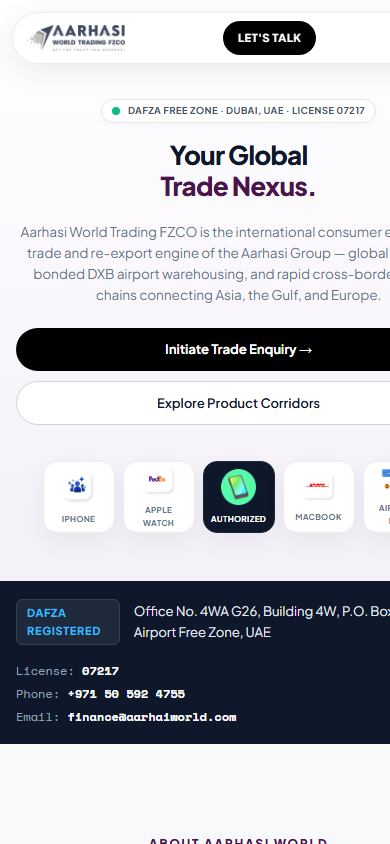
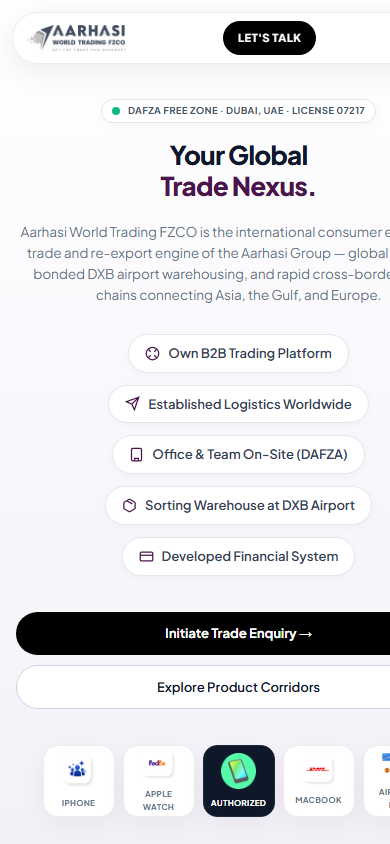
feat: integrate Bhairav Pandhi official photo and Nexus FZCO 5 core capability chips into Dubai trading engine

diff --git a/v4-aarhasi-world/index.html b/v4-aarhasi-world/index.html
@@ -254,6 +254,43 @@
     border-color: #94A3B8;
   }
 
+  
+  /* NEXUS 5 PILLARS IN HERO */
+  .hero-pillars {
+    display: flex;
+    justify-content: center;
+    gap: 12px;
+    flex-wrap: wrap;
+    margin: 28px auto 36px;
+    max-width: 900px;
+  }
+  .pillar-chip {
+    background: #FFFFFF;
+    border: 1px solid #E2E8F0;
+    border-radius: 30px;
+    padding: 8px 16px;
+    font-size: 13px;
+    font-weight: 600;
+    color: #334155;
+    display: inline-flex;
+    align-items: center;
+    gap: 8px;
+    box-shadow: 0 2px 8px rgba(0,0,0,0.03);
+    transition: transform 0.15s, border-color 0.15s;
+  }
+  .pillar-chip:hover {
+    transform: translateY(-2px);
+    border-color: #3B1C54;
+    color: #3B1C54;
+  }
+  .pillar-chip svg {
+    width: 15px;
+    height: 15px;
+    stroke: #4A154B;
+    fill: none;
+    stroke-width: 2;
+  }
+
   /* HARDWARE SQUIRCLE CAROUSEL / ROW */
   .devices-band {
     display: flex;
@@ -1026,6 +1063,30 @@
     <h1 class="hero-title">Your Global <span>Trade Nexus.</span></h1>
     <p class="hero-lead">Aarhasi World Trading FZCO is the international consumer electronics trade and re-export engine of the Aarhasi Group — global sourcing, bonded DXB airport warehousing, and rapid cross-border supply chains connecting Asia, the Gulf, and Europe.</p>
 
+    <!-- NEXUS 5 CORE CAPABILITIES -->
+    <div class="hero-pillars hero-nexus-pillars">
+      <div class="pillar-chip">
+        <svg viewBox="0 0 24 24"><circle cx="12" cy="12" r="10"/><path d="m4.93 4.93 4.24 4.24M14.83 14.83l4.24 4.24M14.83 9.17l4.24-4.24M4.93 19.07l4.24-4.24"/></svg>
+        Own B2B Trading Platform
+      </div>
+      <div class="pillar-chip">
+        <svg viewBox="0 0 24 24"><path d="M22 2 11 13M22 2l-7 20-4-9-9-4 20-7z"/></svg>
+        Established Logistics Worldwide
+      </div>
+      <div class="pillar-chip">
+        <svg viewBox="0 0 24 24"><rect x="4" y="2" width="16" height="20" rx="2"/><path d="M9 22v-4h6v4M8 6h.01M16 6h.01M12 6h.01M12 10h.01M12 14h.01M16 10h.01M16 14h.01M8 10h.01M8 14h.01"/></svg>
+        Office &amp; Team On-Site (DAFZA)
+      </div>
+      <div class="pillar-chip">
+        <svg viewBox="0 0 24 24"><path d="m7.5 4.27 9 5.15M21 8a2 2 0 0 0-1-1.73l-7-4a2 2 0 0 0-2 0l-7 4A2 2 0 0 0 3 8v8a2 2 0 0 0 1 1.73l7 4a2 2 0 0 0 2 0l7-4A2 2 0 0 0 21 16Z"/></svg>
+        Sorting Warehouse at DXB Airport
+      </div>
+      <div class="pillar-chip">
+        <svg viewBox="0 0 24 24"><rect x="2" y="5" width="20" height="14" rx="2"/><line x1="2" y1="10" x2="22" y2="10"/></svg>
+        Developed Financial System
+      </div>
+    </div>
+
     <div class="hero-ctas">
       <a href="#contact" class="btn-apple-primary">Initiate Trade Enquiry &rarr;</a>
       <a href="#corridors" class="btn-apple-secondary">Explore Product Corridors</a>
@@ -1372,7 +1433,7 @@
           <div>
             <div class="team-name">Bhairav D. Pandhi</div>
             <div class="team-role">Strategic Advisor</div>
-            <p class="team-bio">The Distribution Powerhouse. MBA graduate who manages a ₹2,700 Cr business with a team of 3,500+ people, 90+ distributors, and 6,000+ retailers. Distribution architect to the board.</p>
+            <p class="team-bio">The Distribution Powerhouse. MBA graduate who manages a ₹2,700 Cr business with a team of 3,500+ people, 90+ distributors, and 6,000+ retailers. Former Director &amp; Partner at Hari OM Mobiles Pvt Ltd (OPPO Gujarat) managing ₹2,700 Cr business across 3,500+ team, 90+ distributors, and 6,000+ retailers. 14 years at LG Electronics India (#1 Branch Manager All-India). Strategic advisor guiding Aarhasi's global scaling.</p>
           </div>
           <ul class="team-milestones">
             <li><strong>Hari OM Mobiles:</strong> Partner/Director, OPPO Gujarat agent (₹2,700 Cr)</li>
